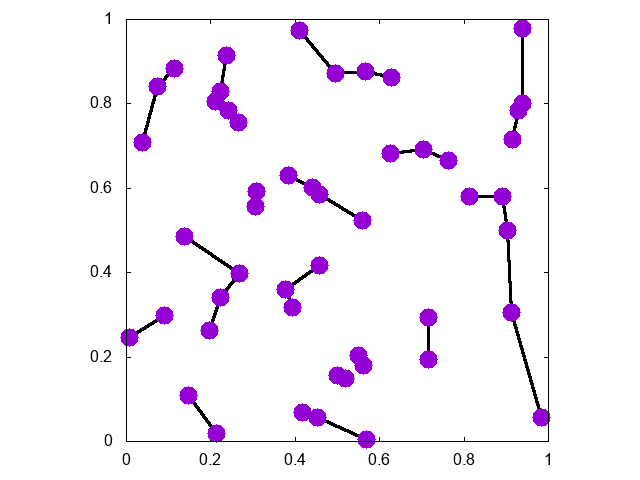
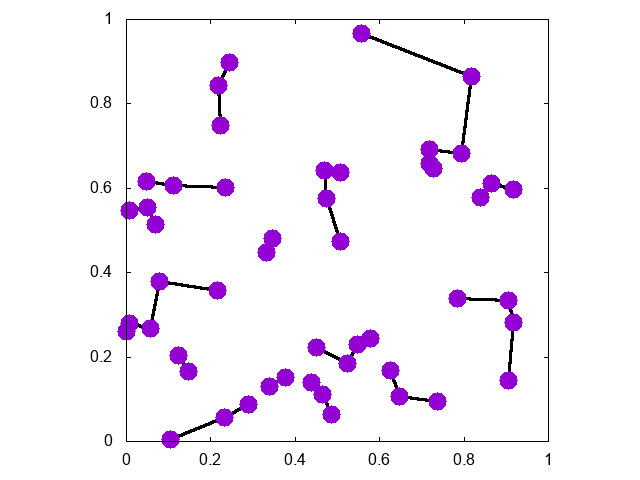
Juntar los archivos .py

diff --git a/Tarea2/ModificadoJunto.py b/Tarea2/ModificadoJunto.py
@@ -1,0 +1,77 @@
+from random import random
+from math import sqrt
+
+class Grafo:
+
+    def __init__(self):
+        self.nodos = []
+        self.aristas= []
+        self.dis = []
+        self.dismin = []
+
+    def agrega(self, n):
+        with open("ModificadoNodos.dat", "w") as crear:
+            for t in range(n):
+                x=random()
+                y=random()
+                self.nodos.append((x,y))
+                print (x,y,file=crear)
+
+    def distancia(self):
+        for (x1,y1) in self.nodos:
+            for (x2,y2) in self.nodos:
+                d=sqrt(((y2-y1)**2)+((x2-x1)**2))
+                if d==0:
+                    self.dis.append(d)
+                else:
+                    if d in self.dis:
+                        self.dis.append(20)
+                    else:
+                        self.dis.append(d)
+
+    def conecta(self):
+        for (x1,y1) in self.nodos:
+            self.dismin=[]
+            for(x2,y2) in self.nodos:
+                dm=sqrt(((y2-y1)**2)+((x2-x1)**2))
+                if dm==0:
+                    self.dismin.append(20)
+                else:
+                    if dm in self.dismin:
+                        self.dismin.append(20)
+                    else:
+                        self.dismin.append(dm)
+            #print(self.nodos[self.dismin.index(min(self.dismin))][0])
+            if min(self.dismin) in self.dis:
+                a1=self.nodos[self.dismin.index(min(self.dismin))][0]
+                b1=self.nodos[self.dismin.index(min(self.dismin))][1]
+                self.aristas.append((x1,y1,a1,b1))
+                self.dis.remove(min(self.dismin))
+
+    def graficar(self):
+        with open("Modificado.plot","w") as archivo:
+             print("set term png", file=archivo)
+             print("set output 'ModificadoGraf.png'", file=archivo)
+             print("set xrange [0:1]", file=archivo)
+             print("set yrange [0:1]", file=archivo)
+             print("set pointsize 3", file=archivo)
+             print("set size square", file=archivo)
+             print("set key off", file=archivo)
+             num=1
+             for a in self.aristas:  
+                 (x1,y1,x2,y2)=a
+                 print("set arrow {:d} from {:f}, {:f} to {:f}, {:f} nohead lw 3".format(num,x1,y1,x2,y2),file=archivo)
+                 num+=1
+             print("show arrow", file=archivo)
+             print("plot 'ModificadoNodos.dat' using 1:2 with points pt 7", file=archivo)
+             print("quit()",file=archivo)
+
+
+
+
+i=50
+G = Grafo()
+G.agrega(i)
+G.distancia()
+G.conecta()
+G.graficar()
